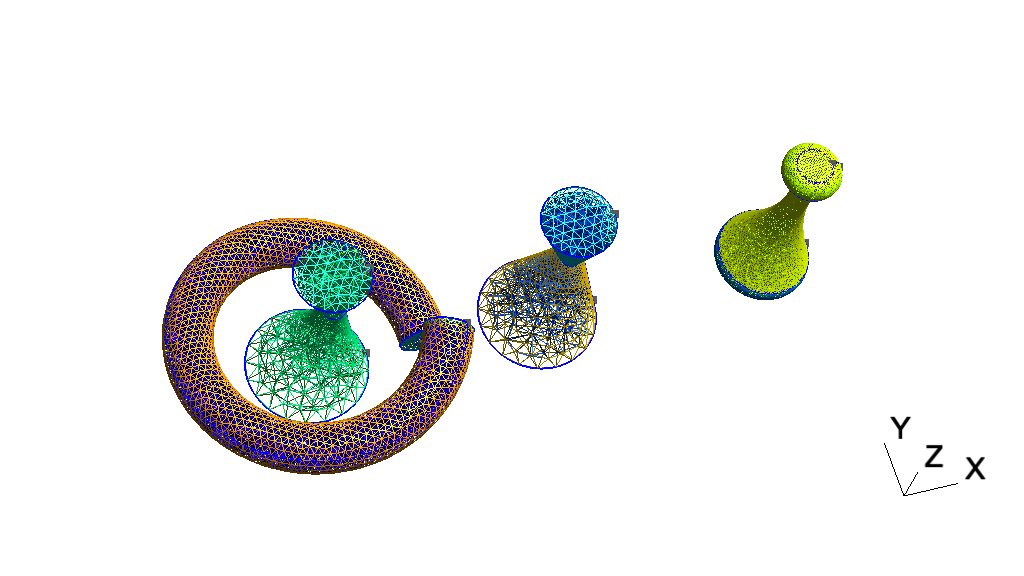
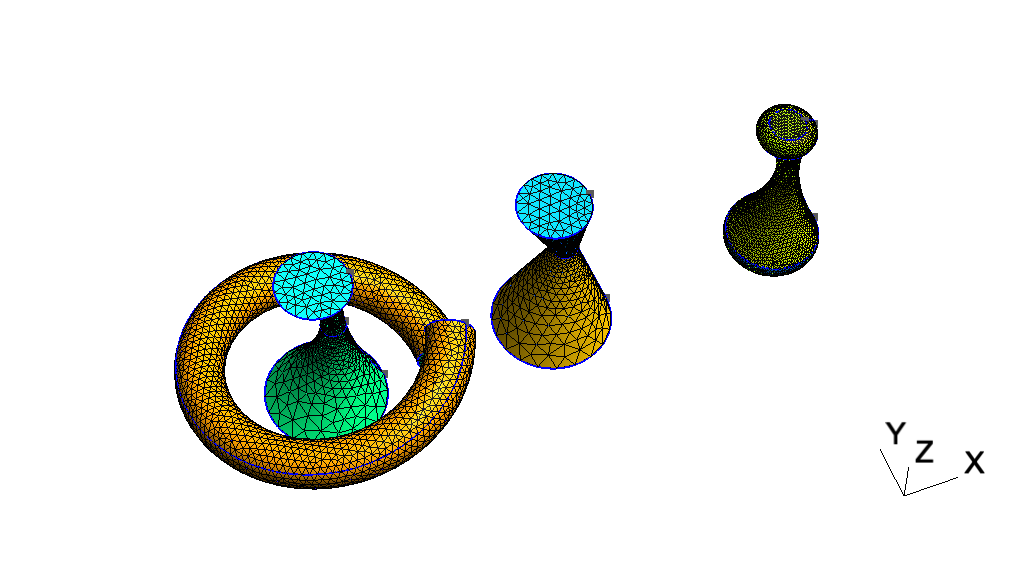
tweak colors

diff --git a/doc/texinfo/images/make_tutorial_gallery.py b/doc/texinfo/images/make_tutorial_gallery.py
@@ -19,17 +19,25 @@ def screenshot():
     gmsh.fltk.run = fltkrun
     gmsh.fltk.initialize = fltkinit
     gmsh.fltk.isAvailable = fltkavail
-    gmsh.option.setNumber('General.TrackballQuaternion0', 0.193008077261779)
-    gmsh.option.setNumber('General.TrackballQuaternion1', -0.1538019269341084)
-    gmsh.option.setNumber('General.TrackballQuaternion2', -0.141335917749105)
-    gmsh.option.setNumber('General.TrackballQuaternion3', 0.9587059026297291)
+    gmsh.option.setNumber('General.TrackballQuaternion0', 0.25)
+    gmsh.option.setNumber('General.TrackballQuaternion1', -0.1)
+    gmsh.option.setNumber('General.TrackballQuaternion2', -0.2)
+    gmsh.option.setNumber('General.TrackballQuaternion3', 0.9)
     gmsh.option.setNumber('General.Orthographic', 0)
+    if gmsh.option.getNumber('PostProcessing.NbViews') > 0:
+        gmsh.option.setNumber('Mesh.SurfaceFaces', 0)
+        gmsh.option.setNumber('Mesh.ColorCarousel', 0)
+    else:
+        gmsh.option.setNumber('Mesh.SurfaceFaces', 1)
+        gmsh.option.setNumber('Mesh.ColorCarousel', 1)
+    gmsh.option.setNumber('Mesh.SmoothNormals', 1)
+    gmsh.option.setNumber('Mesh.AngleSmoothNormals', 60)
+    gmsh.option.setNumber('Print.Background', 0)
     # 16/9 aspect ratio, width of 512*2 pixels when generated in mac with retina
     # display
     gmsh.option.setNumber('General.GraphicsWidth', 512 +
                           gmsh.option.getNumber('General.MenuWidth'))
     gmsh.option.setNumber('General.GraphicsHeight', 288)
-    gmsh.option.setNumber('Print.Background', 0)
     gmsh.fltk.initialize()
     gmsh.write(tuto + '.png')
     gmsh.fltk.finalize()
